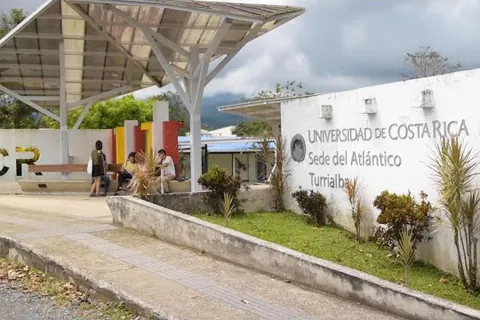
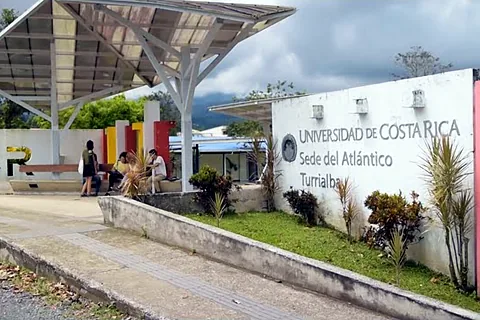
Fotos de los diez recintos en las fichas del mapa
Herramienta de procesamiento con superresolución EDSR para fotos pequeñas,
recorte con punto de enfoque y WebP sin metadatos. Logo eliminado de la foto
de Paraíso. Fecha de contenido al 20 de octubre de 2026.

Claude-Session: https://claude.ai/code/session_019HSSCZxkFFyfGqqMBaKUso

diff --git a/src/assets/js/site.js b/src/assets/js/site.js
@@ -199,7 +199,7 @@
     }
     function fotoFicha(s) {
       var f = s.foto; if (!f) return '';
-      return '<figure class="ficha-foto"><img src="' + esc(f.base) + '-480.webp" srcset="' + esc(f.base) + '-480.webp 480w, ' + esc(f.base) + '-960.webp ' + f.ancho_max + 'w" sizes="(max-width: 860px) 92vw, 380px" width="480" height="320" alt="' + esc(f.alt) + '" decoding="async">' +
+      return '<figure class="ficha-foto"><img src="' + esc(f.base) + '-480.webp" srcset="' + esc(f.base) + '-480.webp 480w, ' + esc(f.base) + '-960.webp 960w" sizes="(max-width: 860px) 92vw, 380px" width="480" height="320" alt="' + esc(f.alt) + '"' + (f.pos ? ' style="object-position:' + esc(f.pos) + '"' : '') + ' decoding="async">' +
         (f.credito ? '<figcaption>Foto: ' + esc(f.credito) + '</figcaption>' : '') + '</figure>';
     }
     function contenidoFicha(s) {

diff --git a/herramientas/procesar_foto.py b/herramientas/procesar_foto.py
@@ -1,26 +1,48 @@
 #!/usr/bin/env python3
-"""Prepara una foto para el sitio: quita franjas negras, recorta a 3:2, genera WebP en 480 y 960 px de ancho
-y elimina todos los metadatos (GPS, cámara, fecha). Se ejecuta en local, no en el servidor.
+"""Prepara una foto para el sitio. Se ejecuta en local, no en el servidor.
 
-Uso: python3 herramientas/procesar_foto.py ORIGINAL.jpg src/assets/fotos/sedes/limon
-     -> limon-480.webp y limon-960.webp
+- Quita franjas negras (fotogramas de video).
+- Si la foto mide menos de 960 px de ancho, la amplía con superresolución EDSR x2
+  (OpenCV dnn_superres; modelo EDSR_x2.pb de github.com/Saafke/EDSR_Tensorflow).
+- Corrige levemente contraste, color y nitidez.
+- Recorta a 3:2 con un punto de enfoque (0 = izquierda/arriba, 0.5 = centro, 1 = derecha/abajo).
+- Genera WebP de 480 y 960 px sin metadatos (GPS, cámara, fecha).
+
+Uso: python3 herramientas/procesar_foto.py ORIGINAL src/assets/fotos/sedes/ID [enfoque] [--modelo RUTA]
 """
-import sys
-from PIL import Image, ImageOps
+import argparse
+from PIL import Image, ImageOps, ImageFilter, ImageEnhance
 
-origen, destino = sys.argv[1], sys.argv[2]
-im = ImageOps.exif_transpose(Image.open(origen)).convert("RGB")
-# quita franjas negras (fotogramas de video con bandas arriba y abajo o a los lados)
-gris = im.convert("L").point(lambda v: 255 if v > 18 else 0)
-caja = gris.getbbox()
+ap = argparse.ArgumentParser()
+ap.add_argument("origen"); ap.add_argument("destino")
+ap.add_argument("enfoque", nargs="?", type=float, default=0.5)
+ap.add_argument("--modelo", default=None)
+a = ap.parse_args()
+
+im = ImageOps.exif_transpose(Image.open(a.origen)).convert("RGB")
+caja = im.convert("L").point(lambda v: 255 if v > 18 else 0).getbbox()
 if caja: im = im.crop(caja)
+
+ampliada = False
+if im.width < 960 and a.modelo:
+    import cv2, numpy as np
+    sr = cv2.dnn_superres.DnnSuperResImpl_create(); sr.readModel(a.modelo); sr.setModel("edsr", 2)
+    bgr = cv2.cvtColor(np.asarray(im), cv2.COLOR_RGB2BGR)
+    im = Image.fromarray(cv2.cvtColor(sr.upsample(bgr), cv2.COLOR_BGR2RGB))
+    ampliada = True
+
+im = ImageOps.autocontrast(im, cutoff=0.5)
+im = ImageEnhance.Color(im).enhance(1.05)
+
 w, h = im.size
-if w / h > 1.5:                       # demasiado ancha: recorta a los lados
-    nw = round(h * 1.5); im = im.crop(((w - nw) // 2, 0, (w - nw) // 2 + nw, h))
-else:                                 # demasiado alta: recorta arriba y abajo
-    nh = round(w / 1.5); im = im.crop((0, (h - nh) // 2, w, (h - nh) // 2 + nh))
+if w / h > 1.5:
+    nw = round(h * 1.5); x0 = round((w - nw) * a.enfoque); im = im.crop((x0, 0, x0 + nw, h))
+else:
+    nh = round(w / 1.5); y0 = round((h - nh) * a.enfoque); im = im.crop((0, y0, w, y0 + nh))
+
 for ancho in (480, 960):
-    a = min(ancho, im.width)
-    v = im.resize((a, round(a / 1.5)), Image.LANCZOS)
-    v.save(f"{destino}-{ancho}.webp", "WEBP", quality=80, method=6)   # sin exif: Pillow no copia metadatos
-    print(f"{destino}-{ancho}.webp", v.size)
+    an = min(ancho, im.width)
+    v = im.resize((an, round(an / 1.5)), Image.LANCZOS)
+    v = v.filter(ImageFilter.UnsharpMask(radius=1.0, percent=60 if ampliada else 40, threshold=2))
+    v.save(f"{a.destino}-{ancho}.webp", "WEBP", quality=82, method=6)
+    print(f"{a.destino}-{ancho}.webp", v.size, "(superresolución)" if ampliada else "")
